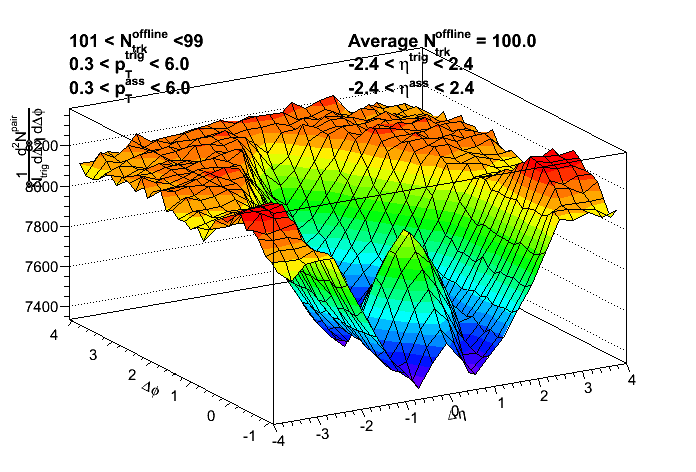
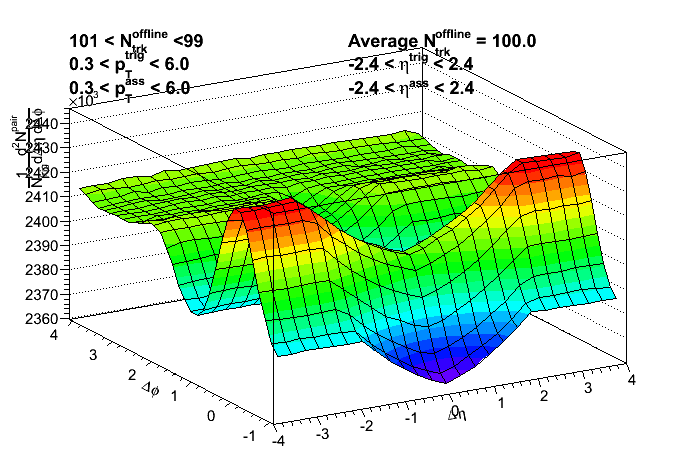
ridge plot

Changed region(s): [[0.0302, 0.2076, 0.9052, 0.8305], [0.0302, 0.178, 0.1509, 0.2669]]

diff --git a/flow/Ridge/pPbDataV205m100/merge.C b/flow/Ridge/pPbDataV205m100/merge.C
@@ -17,12 +17,10 @@ void merge(){
             b[ibin]  = new TH2F(Form("b_%d",ibin), "background",detastep,detamin,detamax,dphistep,dphimin,dphimax);
             b[ibin]->Sumw2();
         }
-        //TFile *fout = new TFile(Form("Ana_merged.root"),"Recreate");
-        TFile *fout = new TFile(Form("test.root"),"Recreate");
+        TFile *fout = new TFile(Form("Anav2_merged.root"),"Recreate");
         TFile *f[nFileAll];
-        for(int ifile=; ifile<1; ifile++){
-                //f[ifile] = TFile::Open(Form("%s/Ana_%d.root",outdir.Data(),ifile));
-                f[ifile] = TFile::Open(Form("Ana_0.root"));
+        for(int ifile=; ifile<nFileAll; ifile++){
+                f[ifile] = TFile::Open(Form("%s/Anav2_%d.root",outdir.Data(),ifile));
 		TVectorD* Nevent_t =  (TVectorD*)f[ifile]->Get(Form("Nevent"));
 	//	TVectorD* totmultall_t =  (TVectorD*)f[ifile]->Get(Form("totmultall"));
 		TVectorD* tottrk_t =  (TVectorD*)f[ifile]->Get(Form("tottrk"));

diff --git a/flow/Ridge/pPbDataV205m100/Draw.C b/flow/Ridge/pPbDataV205m100/Draw.C
@@ -1,8 +1,7 @@
 #include "par.h"
 void Draw(){
     gStyle->SetOptStat(kFALSE);
-    TFile *f = TFile::Open(Form("Ana_merged.root"));
-    //TFile *f = TFile::Open(Form("test.root"));
+    TFile *f = TFile::Open(Form("Anav2_merged.root"));
     int xbin=0;
     TH2F* hr = (TH2F*)f->Get(Form("D_%d/hr",xbin));
     TVectorD* vavgtrk = (TVectorD*)f->Get(Form("avgtrk"));
@@ -26,6 +25,6 @@ void Draw(){
     l.DrawLatex(0.5,0.85,Form("%.1f < #eta^{trig} < %.1f",etatrigmin,etatrigmax));
     l.DrawLatex(0.1,0.80,Form("%.1f < p_{T}^{ass} < %.1f",ptassmin,ptassmax));
     l.DrawLatex(0.5,0.80,Form("%.1f < #eta^{ass} < %.1f",etaassmin,etaassmax));
-    c1->Print("ridge.png");
+    c1->Print("ridgev2.png");
 }
 

diff --git a/flow/Ridge/pPbDataV205m100/ridgeAn_v2.C b/flow/Ridge/pPbDataV205m100/ridgeAn_v2.C
@@ -135,7 +135,7 @@ void ridge::calcB(){
                 double phi_ass = t_ass->phi[imult_ass];
 	        if(eta_ass<etaassmin||eta_ass>etaassmax) continue;
                 if(t_ass->pt[imult_ass]<ptassmin||t_ass->pt[imult_ass]>ptassmax) continue; //event selection
-                b[xbin]->Fill(eta_trig-eta_ass,phi_trig-phi_ass,1./Ntrig);
+                b[xbin]->Fill(eta_trig-eta_ass,phi_trig-phi_ass,1.);
                 }
            }
     }

diff --git a/flow/Ridge/pPbDataV205m100/ridgeAn.C b/flow/Ridge/pPbDataV205m100/ridgeAn.C
@@ -160,7 +160,7 @@ void ridge::calcB(){
                 for(int imult_ass=0;imult_ass<Nass;imult_ass++){
                 double eta_ass = pvectorEta_ass[ira][imult_ass];
                 double phi_ass = pvectorPhi_ass[ira][imult_ass];
-                b[xbin]->Fill(eta_trig-eta_ass,phi_trig-phi_ass,1./Ntrig);
+                b[xbin]->Fill(eta_trig-eta_ass,phi_trig-phi_ass,1.);
                 }
             }
         }

diff --git a/flow/Ridge/pPbDataV205m100/dofirst_cp.C b/flow/Ridge/pPbDataV205m100/dofirst_cp.C
@@ -5,7 +5,7 @@ void dofirst_cp(){
 	int end=atoi(getenv("END"));
 	TString name;
 	for(int i=start;i<end;i++){
-		name=Form("Ana_%d.root",i);
+		name=Form("%s/Anav2_%d.root",outdir.Data(),i);
 		remove(name.Data());
 		ridge *l = new ridge(Form("%s/vndata_50k_%d.root",indir.Data(),i));
 		cout<<"start "<<i<<" th job"<<endl;
